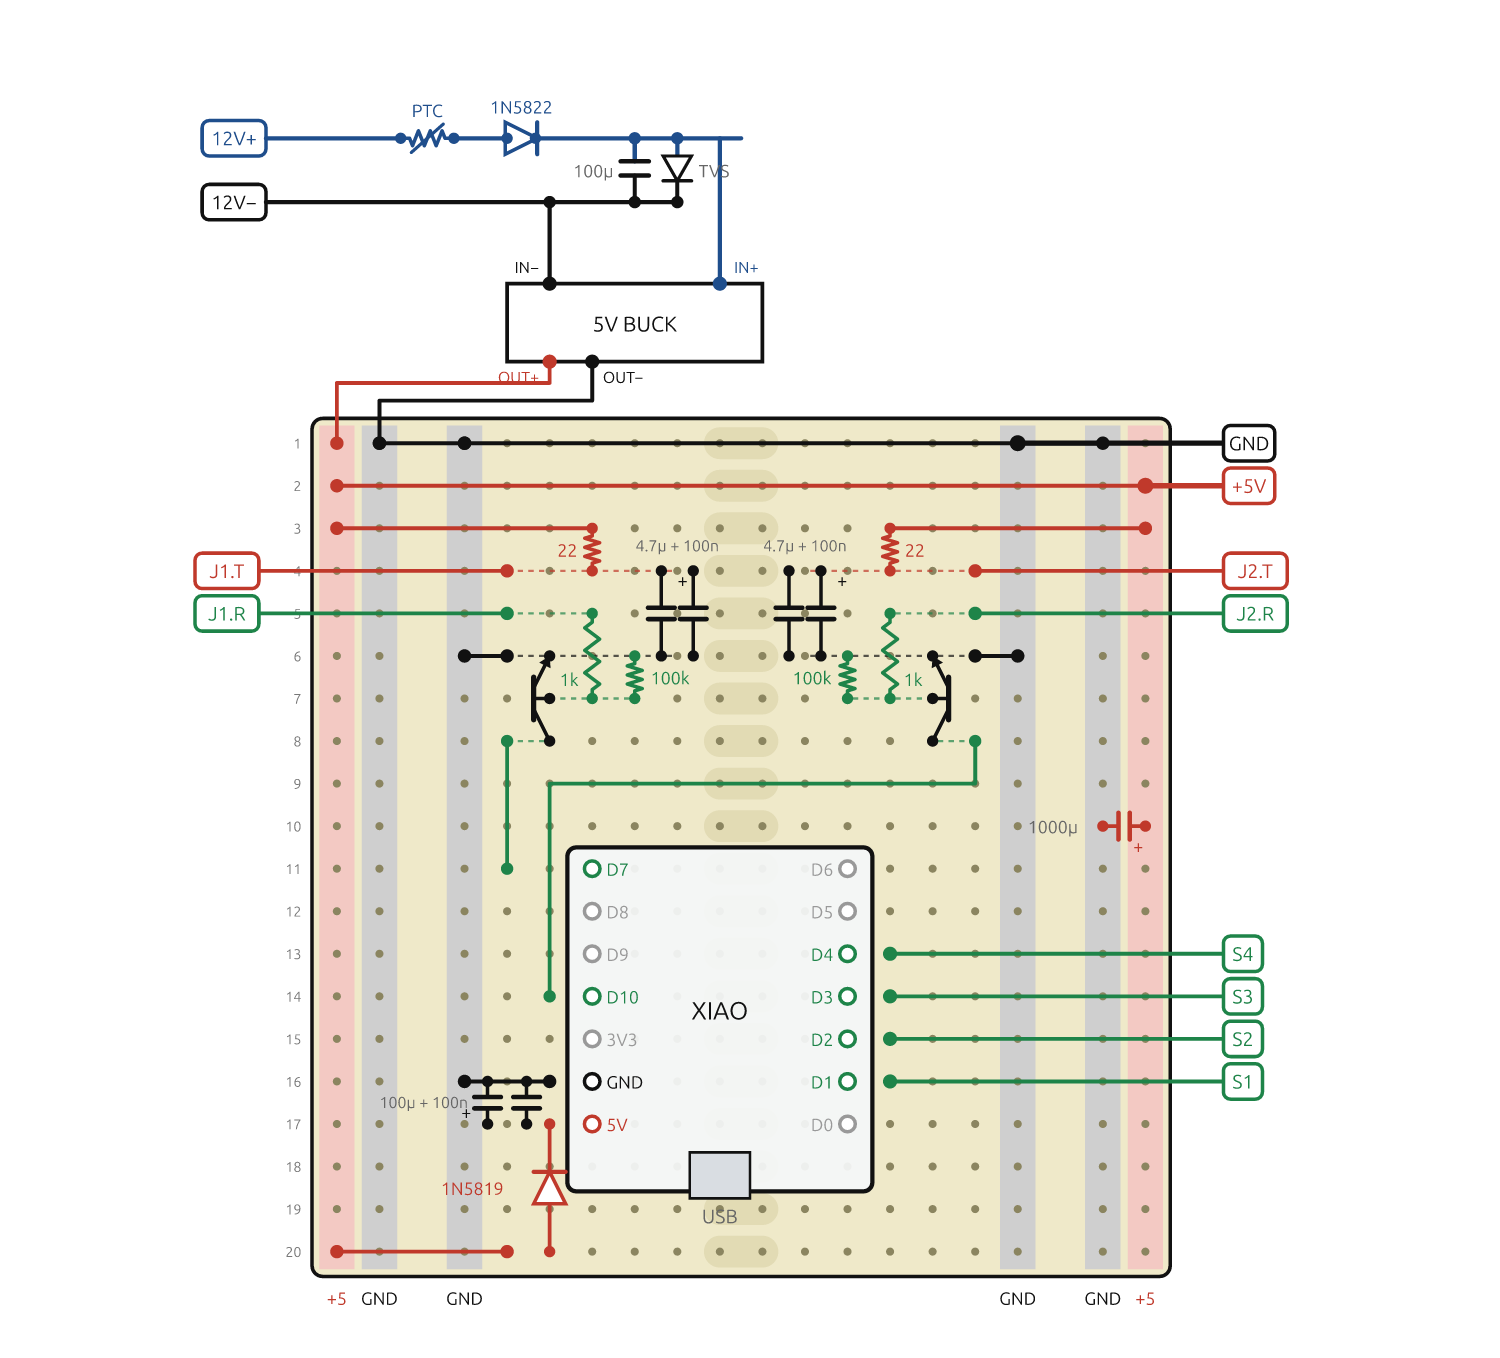
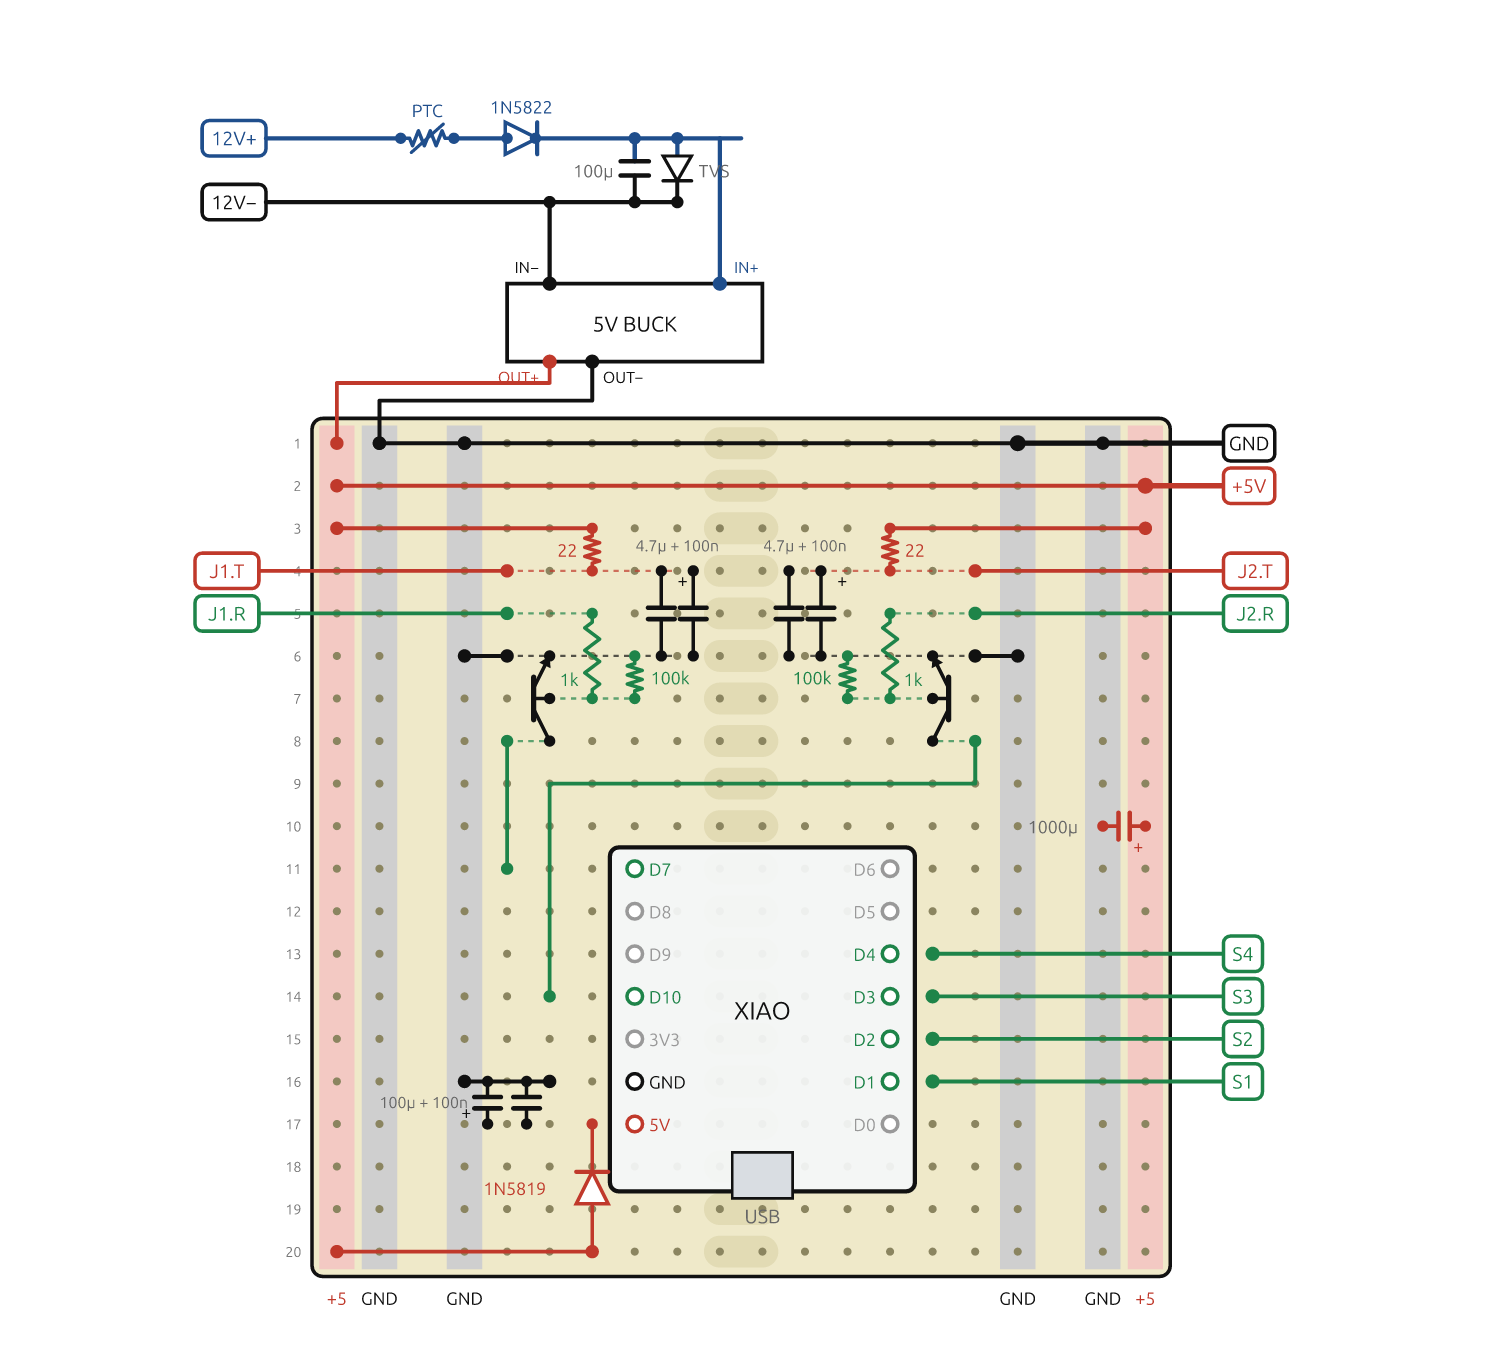
docs: XIAO shifted so the free holes (3) are on the left with the power parts

diff --git a/docs/08-servo-board.md b/docs/08-servo-board.md
@@ -195,9 +195,9 @@ of the XIAO and the sensor pins D7 and D10 are on the left. The sensor circuit f
 one for D10 in the right island, as mirror images, so the two blocks are built the same way and each collector wire is
 short. Rotate the whole board 180° in the box if the USB end should face elsewhere.
 
-**XIAO position:** the XIAO is 7 columns wide. Its left pins are in column 3 of the left island and its right pins in column 9 (columns
-1–5 left, 6–7 middle, 8–12 right), rows 11–17. That leaves **two free holes on the left** (columns 1–2) and **three on
-the right** (columns 10–12). The sensor blocks sit above it in rows 3–8.
+**XIAO position:** the XIAO is 7 columns wide. Its left pins are in column 4 of the left island and its right pins in column 10 (columns
+1–5 left, 6–7 middle, 8–12 right), rows 11–17. That leaves **three free holes on the left** (columns 1–3, where the
+power parts are) and **two on the right** (columns 11–12). The sensor blocks sit above it in rows 3–8.
 
 | Rows | Left pin | Right pin |
 |---|---|---|
@@ -259,10 +259,10 @@ The sleeve of each jack has no wire on this board: it goes to GND on the connect
 | Part | From | To |
 |---|---|---|
 | GND jumper | left row 16, col 2 | left C, row 16 |
-| 1N5819 (band to the XIAO; bend the leads to 0.3") | cathode left row 17, col 2 | anode left row 20, col 2 |
-| Anode jumper | left row 20, col 1 | left A, row 20 |
+| 1N5819 (band to the XIAO; bend the leads to 0.3") | cathode left row 17, col 3 | anode left row 20, col 3 |
+| Anode jumper | left row 20, col 3 | left A, row 20 |
 | 100 µF (+ to row 17) and 100 nF, side by side | left row 17, col 1 | left row 16, col 1 |
-| Tags `S1`, `S2`, `S3`, `S4` | right rows 16 / 15 / 14 / 13, col 10 | |
+| Tags `S1`, `S2`, `S3`, `S4` | right rows 16 / 15 / 14 / 13, col 11 | |
 
 **Wires between the two boards (10 plus the 12 V pair).** `S1`–`S4`, `J1.T`, `J1.R`, `J2.T`, `J2.R`, and one
 `+5V` and one `GND` (20 AWG, they carry every servo's current). `12V+` and `12V−` go from the jack to the 12 V chain
